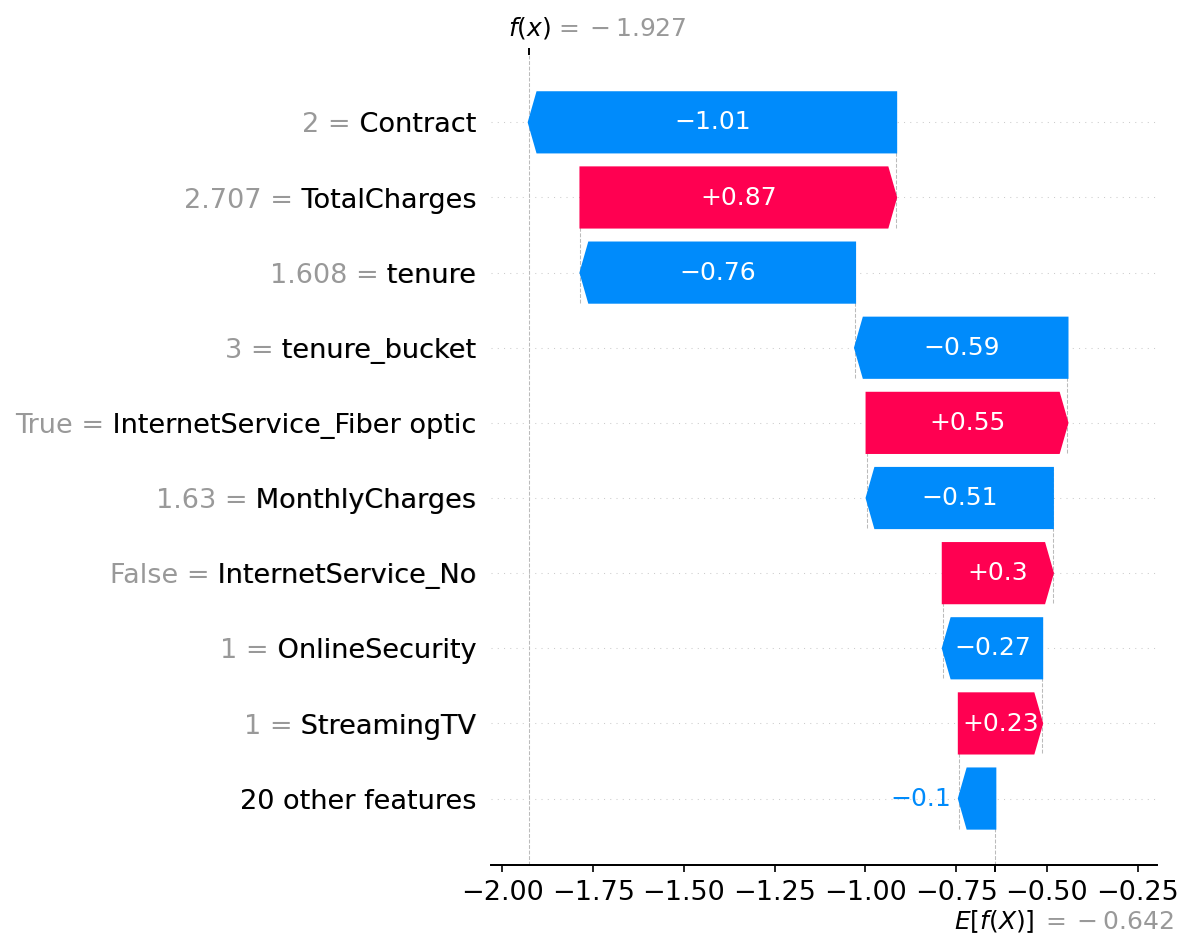
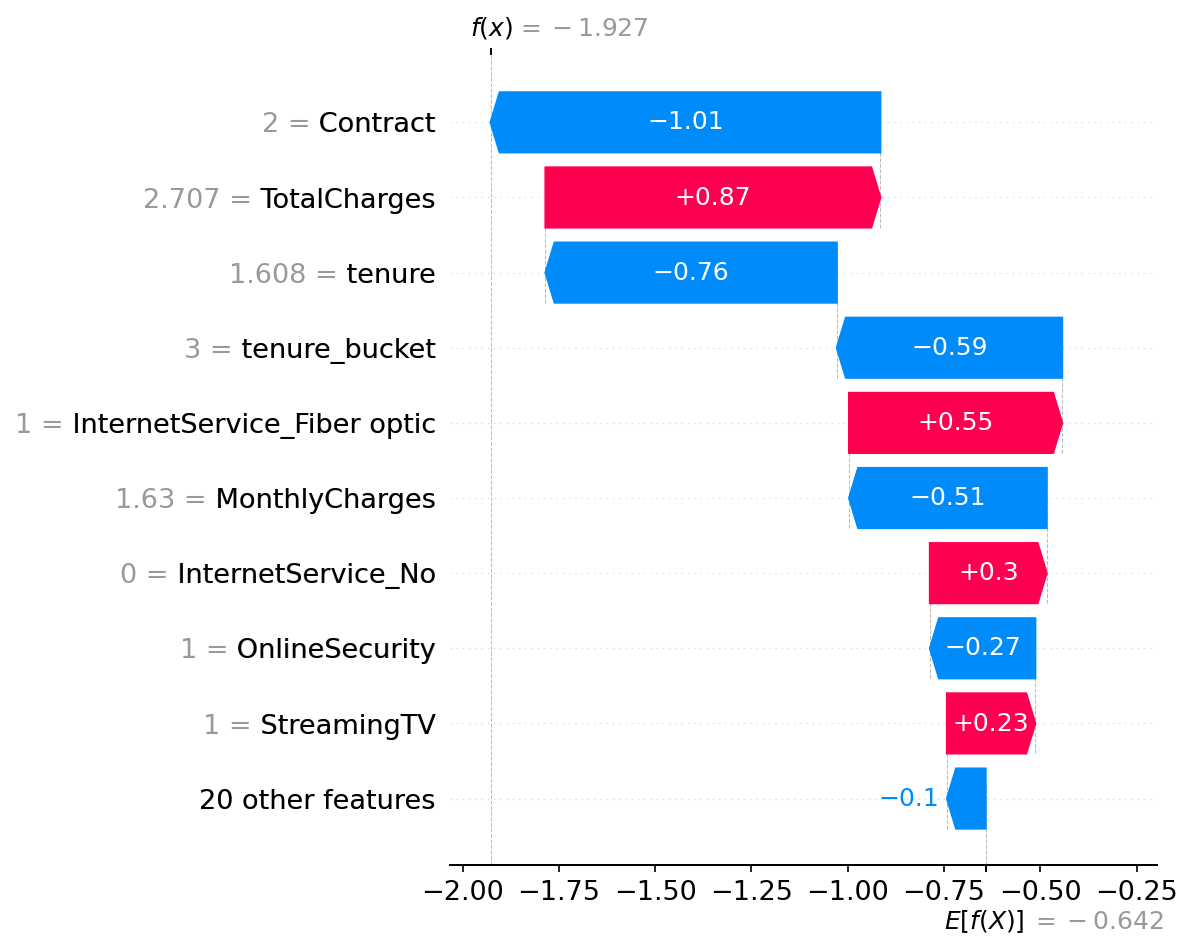
fix: blank SHAP summary plot caused by missing summary_plot() call; regenerate both plots correctly

diff --git a/src/explain.py b/src/explain.py
@@ -1,7 +1,7 @@
 """
 src/explain.py
 
-Phase 6: SHAP explainability for the Logistic Regression production model.
+Phase 9: SHAP explainability for the Logistic Regression production model.
 
 Uses shap.LinearExplainer, the correct explainer for linear models (as
 opposed to TreeExplainer for tree-based models, or the slower
@@ -40,6 +40,11 @@ def build_explainer(model, X_train):
 def global_summary(explainer, X_test):
     """Compute SHAP values for the whole test set, print mean absolute SHAP
     value per feature, and save a beeswarm summary plot."""
+    # Cast to float defensively: shap.summary_plot buckets feature values
+    # for its color gradient using numpy rounding, which throws a cryptic
+    # error if any column isn't already a clean numeric dtype.
+    X_test = X_test.astype(float)
+
     shap_values = explainer.shap_values(X_test)
     mean_abs_shap = pd.Series(
         abs(shap_values).mean(axis=0), index=X_test.columns
@@ -49,12 +54,15 @@ def global_summary(explainer, X_test):
     print(mean_abs_shap.round(4))
 
     os.makedirs(FIGURES_DIR, exist_ok=True)
-    plt.figure()
-    
-    plt.tight_layout()
+    # Don't pre-create a figure — summary_plot manages its own internally.
+    # Grab whatever figure it actually drew onto via plt.gcf() afterward,
+    # rather than saving a separate, empty pre-created figure.
+    shap.summary_plot(shap_values, X_test, show=False)
+    fig = plt.gcf()
+    fig.tight_layout()
     summary_path = os.path.join(FIGURES_DIR, "shap_summary_plot.png")
-    plt.savefig(summary_path, dpi=150, bbox_inches="tight")
-    plt.close()
+    fig.savefig(summary_path, dpi=150, bbox_inches="tight")
+    plt.close(fig)
     print(f"Saved summary plot to {summary_path}")
 
     return shap_values, mean_abs_shap
@@ -64,6 +72,8 @@ def explain_customer(explainer, X_row: pd.DataFrame, customer_id: str):
     """Explain a single customer's prediction: print the text breakdown and
     save a waterfall plot. X_row must be a single-row dataframe with the
     same columns/order as training data."""
+    X_row = X_row.astype(float)
+
     shap_values = explainer.shap_values(X_row)
     contributions = pd.Series(
         shap_values[0], index=X_row.columns
@@ -84,13 +94,13 @@ def explain_customer(explainer, X_row: pd.DataFrame, customer_id: str):
     )
 
     os.makedirs(FIGURES_DIR, exist_ok=True)
-    plt.figure()
     shap.plots.waterfall(explanation, show=False)
-    plt.tight_layout()
+    fig = plt.gcf()
+    fig.tight_layout()
     safe_id = str(customer_id).replace("/", "_")
     waterfall_path = os.path.join(FIGURES_DIR, f"shap_waterfall_{safe_id}.png")
-    plt.savefig(waterfall_path, dpi=150, bbox_inches="tight")
-    plt.close()
+    fig.savefig(waterfall_path, dpi=150, bbox_inches="tight")
+    plt.close(fig)
     print(f"Saved waterfall plot to {waterfall_path}")
 
     return contributions
@@ -103,7 +113,7 @@ def main():
     data = fit_transform_features(train_df, test_df)
 
     model = joblib.load("models/logistic_regression.pkl")
-    explainer = build_explainer(model, data.X_train)
+    explainer = build_explainer(model, data.X_train.astype(float))
 
     # 1. Global summary — text + beeswarm plot
     shap_values, mean_abs_shap = global_summary(explainer, data.X_test)
